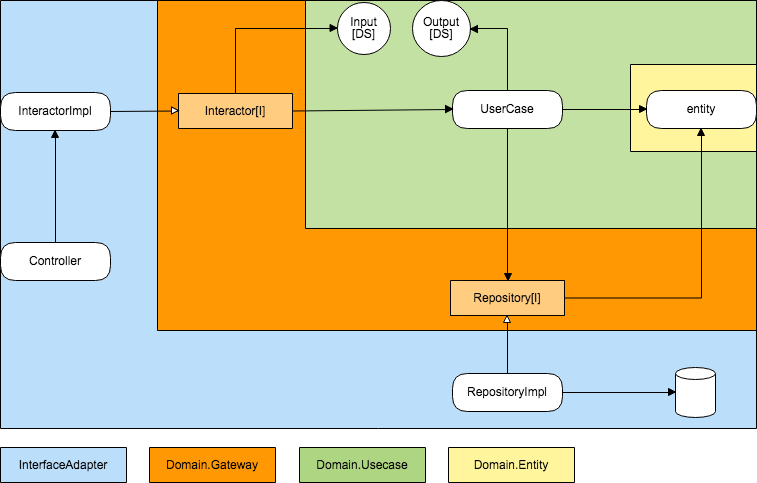
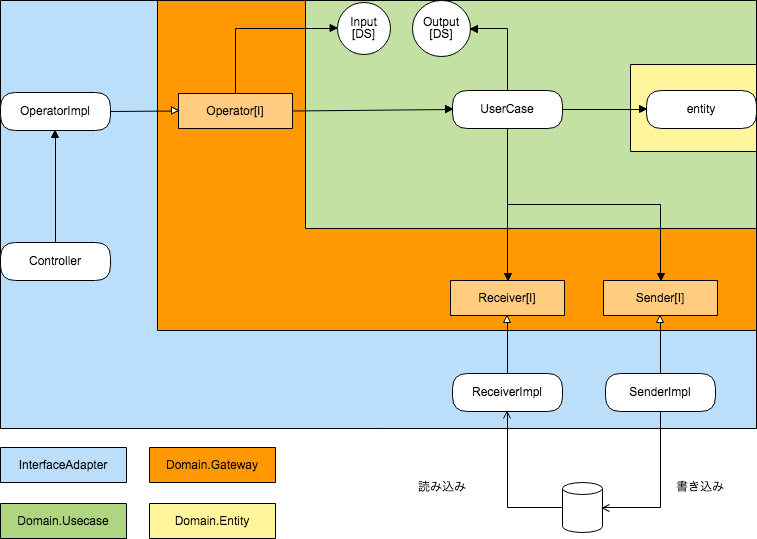
update

diff --git a/sample/src/main/kotlin/interfaceadapter/controller/UserController.kt b/sample/src/main/kotlin/interfaceadapter/controller/UserController.kt
@@ -1,19 +1,22 @@
 package main.kotlin.interfaceadapter.controller
 
+import main.kotlin.interfaceadapter.adapter.operator.user.SignInOperatorImpl
+import main.kotlin.interfaceadapter.adapter.operator.user.SignUpOperatorImpl
+import main.kotlin.interfaceadapter.adapter.receiver.UserReceiverImpl
+import main.kotlin.interfaceadapter.adapter.sender.UserSenderImpl
 import main.kotlin.domain.usecase.signin.UserCaseImpl as signInUserCaseImpl
 import main.kotlin.domain.usecase.signup.UserCaseImpl as signUpUserCaseImpl
-import main.kotlin.interfaceadapter.interactor.*
-import main.kotlin.interfaceadapter.repository.UserRepositoryImpl
 
 class UserController {
 
-    private val userRepository = UserRepositoryImpl()
+    private val userSender = UserSenderImpl()
+    private val userReceiver = UserReceiverImpl()
 
     fun signInAction(): Any? {
 
         //todo トランザクションはコントローラで
 
-        val interactor = SignInInteractorImpl(signInUserCaseImpl(), userRepository)
+        val interactor = SignInOperatorImpl(signInUserCaseImpl(), userReceiver)
 
         val (output, errors) = interactor.signIn()
 
@@ -26,7 +29,7 @@ class UserController {
 
         //todo トランザクションはコントローラで
 
-        val interactor = SignUpInteractorImpl(signUpUserCaseImpl(), userRepository)
+        val interactor = SignUpOperatorImpl(signUpUserCaseImpl(), userReceiver, userSender)
 
         val (output, errors) = interactor.signUp()
 

diff --git a/sample/src/main/kotlin/interfaceadapter/adapter/operator/user/SignUpOperatorImpl.kt b/sample/src/main/kotlin/interfaceadapter/adapter/operator/user/SignUpOperatorImpl.kt
@@ -1,0 +1,25 @@
+package main.kotlin.interfaceadapter.adapter.operator.user
+
+import main.kotlin.domain.gateway.operator.SignUpOperator
+import main.kotlin.domain.gateway.receiver.UserReceiver
+import main.kotlin.domain.gateway.sender.UserSender
+import main.kotlin.domain.usecase.Error
+import main.kotlin.domain.usecase.signup.Input
+import main.kotlin.domain.usecase.signup.Output
+import main.kotlin.domain.usecase.signup.UserCaseImpl
+
+class SignUpOperatorImpl(
+        override val userCase: UserCaseImpl,
+        override val receiver: UserReceiver,
+        override val sender: UserSender
+        ) : SignUpOperator {
+
+    override fun signUp(): Pair<Output?, Error?> {
+
+        //todo パラメータの検証
+        val input = Input("id", "password", "name")
+
+        return Pair(userCase(receiver, sender, input), null)
+    }
+
+}

diff --git a/sample/src/main/kotlin/domain/usecase/signup/UserCaseImpl.kt b/sample/src/main/kotlin/domain/usecase/signup/UserCaseImpl.kt
@@ -1,19 +1,21 @@
 package main.kotlin.domain.usecase.signup
 
 import main.kotlin.domain.entity.User
-import main.kotlin.domain.gateway.repository.UserRepository
+import main.kotlin.domain.gateway.receiver.UserReceiver
+import main.kotlin.domain.gateway.sender.UserSender
 
-class UserCaseImpl: UserCase {
+class UserCaseImpl : UserCase {
 
     override operator fun invoke(
-            repository: UserRepository,
+            receiver: UserReceiver,
+            sender: UserSender,
             input: Input
     ): Output? {
 
         val user = User(null, input.loginId, input.name, input.password)
-        val id = repository.save(user)
+        val id = sender.save(user)
 
-        return repository.find(id)?.let {
+        return receiver.find(id)?.let {
             Output(it.name)
         }
     }

diff --git a/sample/src/main/kotlin/interfaceadapter/adapter/operator/user/SignInOperatorImpl.kt b/sample/src/main/kotlin/interfaceadapter/adapter/operator/user/SignInOperatorImpl.kt
@@ -1,0 +1,22 @@
+package main.kotlin.interfaceadapter.adapter.operator.user
+
+import main.kotlin.domain.gateway.operator.SignInOperator
+import main.kotlin.domain.gateway.receiver.UserReceiver
+import main.kotlin.domain.usecase.Error
+import main.kotlin.domain.usecase.signin.Input
+import main.kotlin.domain.usecase.signin.Output
+import main.kotlin.domain.usecase.signin.UserCase
+
+class SignInOperatorImpl(
+        override val userCase: UserCase,
+        override val receiver: UserReceiver
+) : SignInOperator {
+
+    override fun signIn(): Pair<Output?, Error?> {
+        /* todo パラメータの検証 */
+        val input = Input("id", "password")
+
+        return Pair(userCase(receiver, input), null)
+    }
+
+}

diff --git a/sample/src/main/kotlin/interfaceadapter/adapter/receiver/UserReceiverImpl.kt b/sample/src/main/kotlin/interfaceadapter/adapter/receiver/UserReceiverImpl.kt
@@ -1,14 +1,9 @@
-package main.kotlin.interfaceadapter.repository
+package main.kotlin.interfaceadapter.adapter.receiver
 
 import main.kotlin.domain.entity.User
-import main.kotlin.domain.gateway.repository.UserRepository
+import main.kotlin.domain.gateway.receiver.UserReceiver
 
-class UserRepositoryImpl: UserRepository {
-
-
-    override fun save(user: User): Int {
-        return 1
-    }
+class UserReceiverImpl: UserReceiver {
 
     override fun findByIdAndPassword(loginId: String, password: String): User? {
         return User(null, loginId, password, "")
@@ -17,4 +12,5 @@ class UserRepositoryImpl: UserRepository {
     override fun find(id: Int): User? {
         return User(id, "", "", "")
     }
+
 }

diff --git a/sample/src/main/kotlin/domain/gateway/operator/SignInOperator.kt b/sample/src/main/kotlin/domain/gateway/operator/SignInOperator.kt
@@ -1,15 +1,15 @@
-package main.kotlin.domain.gateway.interactor
+package main.kotlin.domain.gateway.operator
 
-import main.kotlin.domain.gateway.repository.UserRepository
+import main.kotlin.domain.gateway.receiver.UserReceiver
 import main.kotlin.domain.usecase.Error
 import main.kotlin.domain.usecase.signin.Output
 import main.kotlin.domain.usecase.signin.UserCase
 
-interface SignInInteractor {
+interface SignInOperator {
 
     val userCase: UserCase
 
-    val repository: UserRepository
+    val receiver: UserReceiver
 
     fun signIn(): Pair<Output?, Error?>
 }

diff --git a/sample/src/main/kotlin/domain/usecase/signin/UserCaseImpl.kt b/sample/src/main/kotlin/domain/usecase/signin/UserCaseImpl.kt
@@ -1,15 +1,15 @@
 package main.kotlin.domain.usecase.signin
 
-import main.kotlin.domain.gateway.repository.UserRepository
+import main.kotlin.domain.gateway.receiver.UserReceiver
 
 class UserCaseImpl: UserCase {
 
     override operator fun invoke(
-            repository: UserRepository,
+            receiver: UserReceiver,
             input: Input
     ): Output? {
 
-        return repository.findByIdAndPassword(
+        return receiver.findByIdAndPassword(
                 input.loginId,
                 input.password
         )?.let {

diff --git a/sample/src/main/kotlin/domain/gateway/operator/SignUpOperator.kt b/sample/src/main/kotlin/domain/gateway/operator/SignUpOperator.kt
@@ -1,0 +1,18 @@
+package main.kotlin.domain.gateway.operator
+
+import main.kotlin.domain.gateway.receiver.UserReceiver
+import main.kotlin.domain.gateway.sender.UserSender
+import main.kotlin.domain.usecase.Error
+import main.kotlin.domain.usecase.signup.Output
+import main.kotlin.domain.usecase.signup.UserCase
+
+interface SignUpOperator {
+
+    val userCase: UserCase
+
+    val receiver: UserReceiver
+
+    val sender: UserSender
+
+    fun signUp(): Pair<Output?, Error?>
+}

diff --git a/sample/src/main/kotlin/domain/usecase/signup/UserCase.kt b/sample/src/main/kotlin/domain/usecase/signup/UserCase.kt
@@ -1,11 +1,13 @@
 package main.kotlin.domain.usecase.signup
 
-import main.kotlin.domain.gateway.repository.UserRepository
+import main.kotlin.domain.gateway.receiver.UserReceiver
+import main.kotlin.domain.gateway.sender.UserSender
 
 interface UserCase {
 
     operator fun invoke(
-            repository: UserRepository,
+            receiver: UserReceiver,
+            sender: UserSender,
             input: Input
     ): Output?
 }

diff --git a/sample/src/main/kotlin/domain/usecase/signin/UserCase.kt b/sample/src/main/kotlin/domain/usecase/signin/UserCase.kt
@@ -1,11 +1,11 @@
 package main.kotlin.domain.usecase.signin
 
-import main.kotlin.domain.gateway.repository.UserRepository
+import main.kotlin.domain.gateway.receiver.UserReceiver
 
 interface UserCase {
 
     operator fun invoke(
-            repository: UserRepository,
+            receiver: UserReceiver,
             input: Input
     ): Output?
 

diff --git a/sample/src/main/kotlin/domain/gateway/receiver/UserReceiver.kt b/sample/src/main/kotlin/domain/gateway/receiver/UserReceiver.kt
@@ -1,13 +1,11 @@
-package main.kotlin.domain.gateway.repository
+package main.kotlin.domain.gateway.receiver
 
 import main.kotlin.domain.entity.User
 
-interface UserRepository {
+interface UserReceiver {
 
     fun find(id: Int): User?
 
     fun findByIdAndPassword(loginId: String, password: String): User?
-
-    fun save(user: User): Int
 
 }

diff --git a/sample/src/main/kotlin/interfaceadapter/adapter/sender/UserSenderImpl.kt b/sample/src/main/kotlin/interfaceadapter/adapter/sender/UserSenderImpl.kt
@@ -1,0 +1,12 @@
+package main.kotlin.interfaceadapter.adapter.sender
+
+import main.kotlin.domain.entity.User
+import main.kotlin.domain.gateway.sender.UserSender
+
+class UserSenderImpl: UserSender {
+
+    override fun save(user: User): Int {
+        return 1
+    }
+
+}
